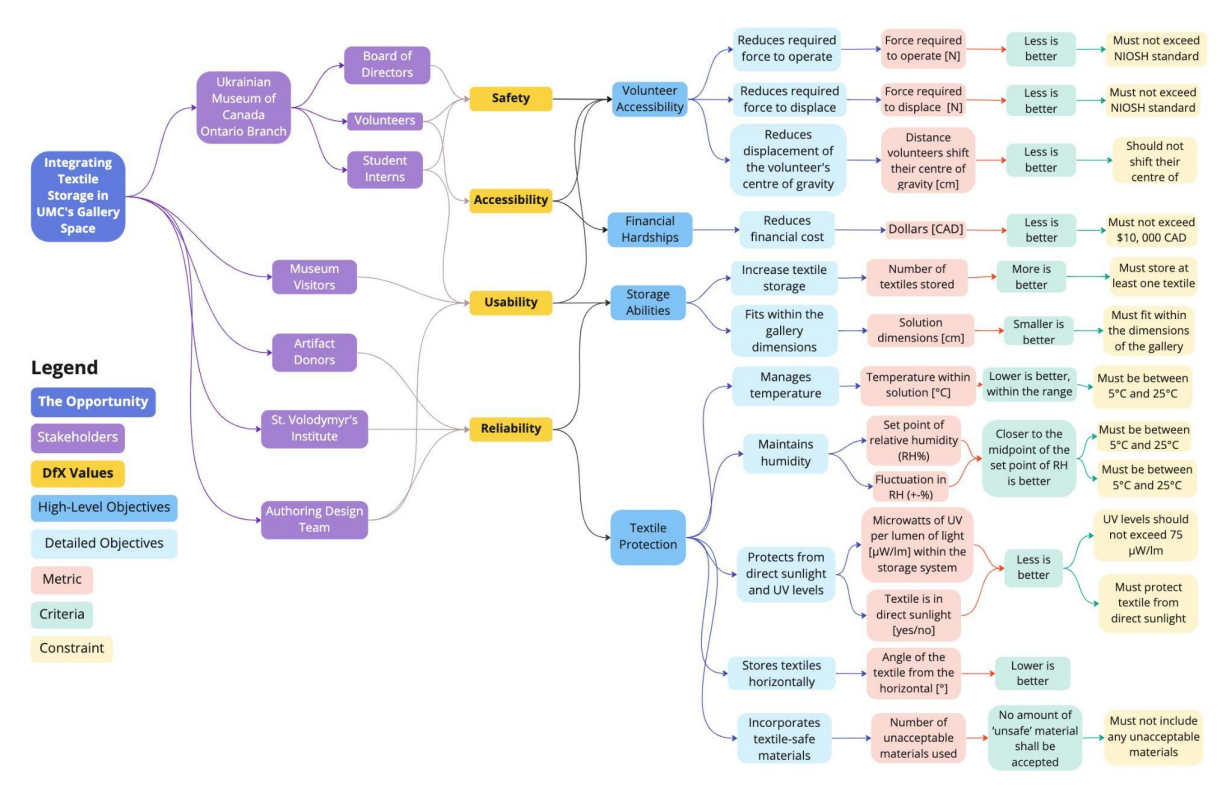
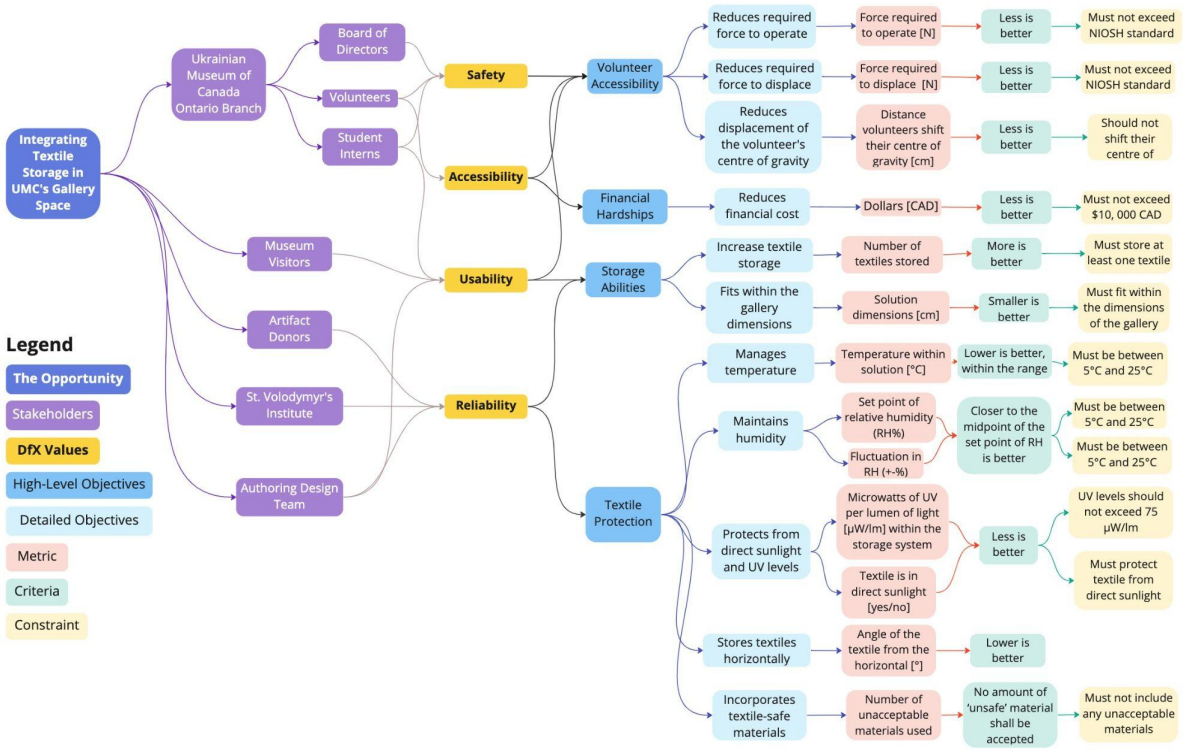
cropped umc reqs

Changed region(s): [[0.0, 0.0, 1.0, 1.0]]

diff --git a/handbook.md b/handbook.md
@@ -327,6 +327,35 @@ The Requirements Model consits of various requirement strings (sometimes shorten
 - **Criteria**: Defines the relationships between measurements. [[6]]() Qualifies the viability of a design within acceptable constraints.
 
 #### Examples
+The following examples of requirements are taken from the TTL RFP:
+
+![TTL Usability Requirement 1](https://togohogo1.github.io/Student-Engineer-Portfolio-and-Handbook/assets/handbook/ttl_req_1.png)
+
+<sub><i>Figure 6.</i> Requirement taken from <a href="https://www.umcontario.com/about">[9]</a>. The high-level objective is usability.</sub>
+
+7.2.3 contains the detailed objective, the metric, constraint, then criteria. Here are some key observations:
+- "Should" is used in the constraint because of the tolerance in the constraint.
+- The metric is quantifiable
+- A justification is usually provided to explain why a requirement is important for the stakeholders.
+
+Here is another requirement:
+
+![TTL Usability Requirement 2](https://togohogo1.github.io/Student-Engineer-Portfolio-and-Handbook/assets/handbook/ttl_req_2.png)
+
+<sub><i>Figure 6.</i> Requirement taken from <a href="https://www.umcontario.com/about">[9]</a></sub>
+
+And some observations and conclusions:
+- A requirement does not need a constraint when appropriate. In this case, finding the upper bound for cost was not a feasible task given our resources, but we intuitively knew that the criteria is "the less the better".
+- It is possible that a criteria might be missing as well (usually when the metric is a yes/no)
+- Objectives can have multiple metrics, which may influence number of criteria and constriants.
+
+#### Visual Representation
+A graphical format helps better visualize how requirements are connected with each other, stakeholders, etc:
+
+![UMC Requirements](https://togohogo1.github.io/Student-Engineer-Portfolio-and-Handbook/assets/handbook/umc_req_pic.png)
+
+<sub><i>Figure 6.</i> Graphical requirements taken from <a href="https://www.umcontario.com/about">[10]</a>. Our team commonly referenced it from time to time leading up to showcase.</sub>
+
 
 ## References [ꜛ](#table-of-contents)
 ---
@@ -347,3 +376,7 @@ The Requirements Model consits of various requirement strings (sometimes shorten
 [7] https://library.csuchico.edu/sites/default/files/craap-test.pdf
 
 [8] file:///C:/Users/kevin/Desktop/praxsus/ESC101%2020229%20Lecture%2005%20[slides].pdf
+
+[9] TTL RFP
+
+[10] UMC RFP
